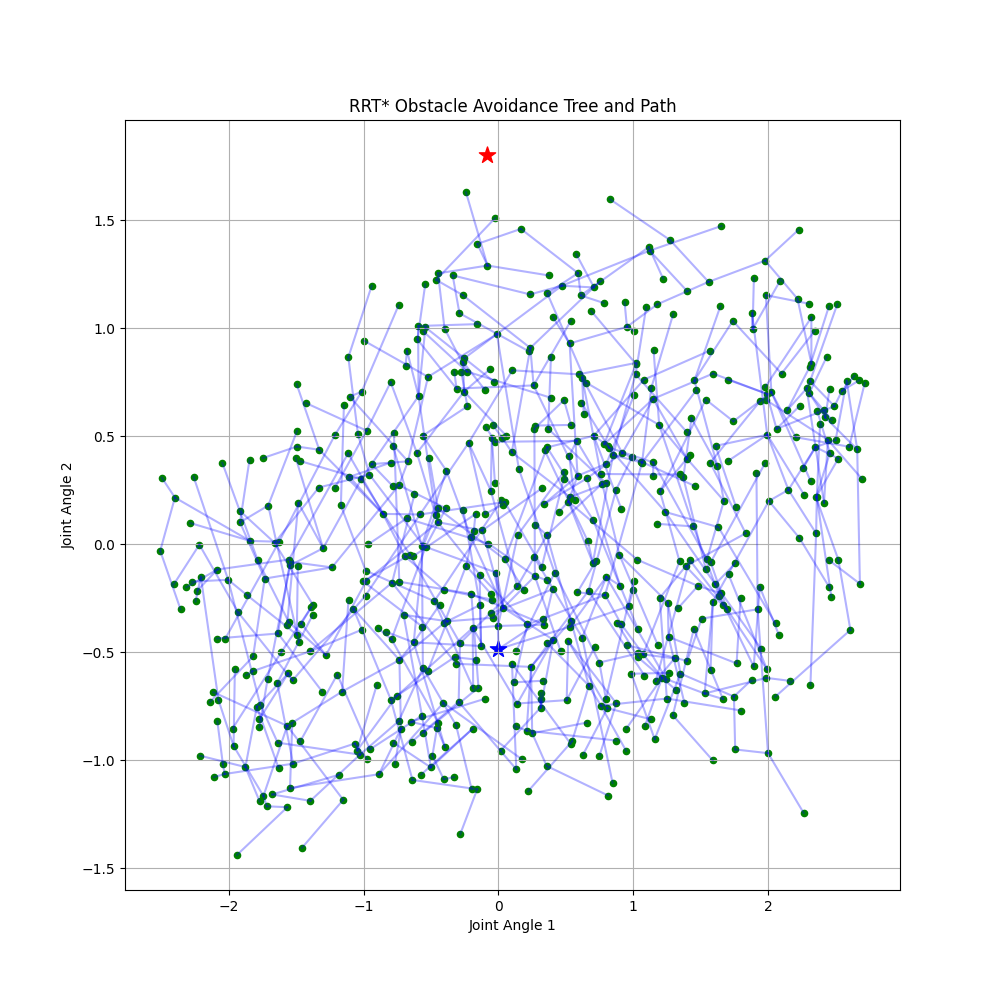
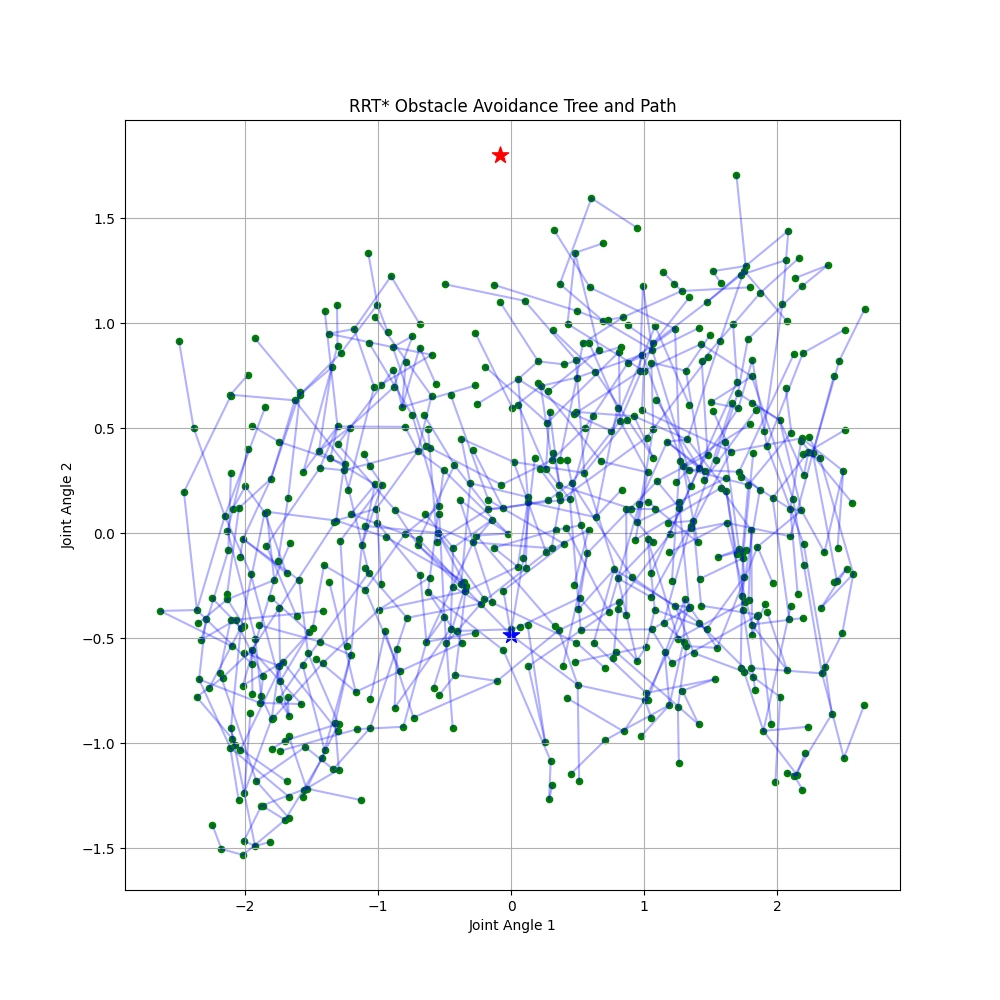
Added per frame planning doesnt work

diff --git a/main.py b/main.py
@@ -194,7 +194,7 @@ if __name__ == "__main__":
     env_num = 4
 
     # planner = "RRTObstacleAvoidance"
-    planner = "RRT_Star"
+    planner = "RRTObstacleAvoidance"
 
     # Set the environment
     physics_client, collision_ids, goal_id, robot_id, home_positions = environment_setup(env_num=env_num)
@@ -259,23 +259,102 @@ if __name__ == "__main__":
         planner.run(goal_positions = goal_positions)
 
     elif planner == "RRTObstacleAvoidance":
-        path_saved = np.array([goal_positions[0]]) # Start at the first goal position
+        path_saved = np.array([goal_positions[0]])  # Start at the first goal position
+
+        # Set up PID gains for joint position control
+        p_gain = 0.5
+        i_gain = 0.01
+        d_gain = 0.1
+
         for i in range(1, len(goal_positions)):
-            print(f"\nRunning RRT Star wih Object avoidance Motion Planner for goal position {i}")
-            print(f"Start position: {np.round(goal_positions[i-1],5)}")
-            print(f"Goal position: {np.round(goal_positions[i],5)}")
+            print(f"\nRunning RRT Star with Object Avoidance Motion Planner for goal position {i}")
+            print(f"Start position: {np.round(goal_positions[i-1], 5)}")
+            print(f"Goal position: {np.round(goal_positions[i], 5)}")
 
             # Initialize the RRT planner
-            rrt_oa = RealTimeRRT_ObstacleAvoidance(q_start=goal_positions[i-1], q_goal=goal_positions[i], robot_id=robot_id, obstacle_ids=collision_ids, max_iter=2000, step_size=0.75)
+            rrt_oa = RealTimeRRT_ObstacleAvoidance(
+                q_start=goal_positions[i-1],
+                q_goal=goal_positions[i],
+                robot_id=robot_id,
+                obstacle_ids=collision_ids,
+                max_iter=2000,
+                step_size=0.75
+            )
 
-            # Run the RRT planner
-            path_saved = np.concatenate((path_saved, rrt_oa.get_path()), axis=0)
+            # Real-time path following and replanning
+            current_goal_index = i
+            current_path, some_path = rrt_oa.get_path()
+
+            print(some_path)
+            path_index = 0
+            print("LMAO")
+            while path_index < len(some_path) - 1:
+
+                # Get current joint states
+                current_joint_states = p.getJointStates(robot_id, range(7))
+                current_joint_positions = [state[0] for state in current_joint_states]
+
+                # Check current robot state and obstacle positions
+                current_robot_pos = rrt_oa.forward_kinematics(current_joint_positions)
+
+                # Check for obstacle proximity or collision
+                is_obstacle_near, nearby_obstacles = rrt_oa.check_obstacle_proximity(current_robot_pos)
+
+                if is_obstacle_near:
+                    print(f"Obstacles detected near current position. Replanning...")
+                    # Replan the path
+                    rrt_oa = RealTimeRRT_ObstacleAvoidance(
+                        q_start=current_joint_positions,
+                        q_goal=goal_positions[current_goal_index],
+                        robot_id=robot_id,
+                        obstacle_ids=collision_ids,
+                        max_iter=2000,
+                        step_size=0.75
+                    )
+                    current_path, some_path = rrt_oa.get_path()
+                    path_index = 0
+
+                # Get next target joint positions
+                target_joint_positions = some_path[path_index + 1]
+
+                # Implement PID control for joint position tracking
+                joint_commands = []
+                for j in range(7):
+                    # Calculate error
+                    error = target_joint_positions[j] - current_joint_positions[j]
+
+                    # PID control calculation
+                    # You might want to store previous errors and integrate for more precise control
+                    command = p_gain * error
+
+                    joint_commands.append(command)
+
+                # Apply joint position control
+                p.setJointMotorControlArray(
+                    bodyIndex=robot_id,
+                    jointIndices=range(7),
+                    controlMode=p.POSITION_CONTROL,
+                    targetPositions=target_joint_positions,
+                    positionGains=[p_gain]*7,
+                    velocityGains=[d_gain]*7
+                )
+
+                # Step simulation
+                p.stepSimulation()
+
+                # Check if we're close enough to the target joint positions
+                if np.allclose(current_joint_positions, target_joint_positions, atol=0.05):
+                    path_index += 1
+
+                # Visualize current path and iteration
+                rrt_oa.visualize(goal_index=i)
+
+                # Add a small delay to control simulation speed
+                time.sleep(0.05)
+
+            # Accumulate path
+            path_saved = np.concatenate((path_saved, some_path), axis=0)
             print(path_saved)
-
-            # Visualize the path
-            rrt_oa.visualize(goal_index = i)
-
-        print(f"Path saved: {np.round(path_saved,5)}")
 
     # Initializing Simulation
     p.setRealTimeSimulation(0)

diff --git a/Planners/RealTimeRRTObstacleAvoidance.py b/Planners/RealTimeRRTObstacleAvoidance.py
@@ -279,6 +279,10 @@ class RealTimeRRT_ObstacleAvoidance:
         """Return the path from the start node to the goal node."""
 
         self.plan()
+        # print(self.node_list)
+        some_path = []
+        for no in self.node_list:
+            some_path.append(no.joint_angles)
 
         node = self.q_goal
         while node is not None:
@@ -288,7 +292,7 @@ class RealTimeRRT_ObstacleAvoidance:
         if not np.array_equal(self.path[-1], self.q_start.joint_angles):
             print("Path does not connect back to the start! Debug required.")
 
-        return self.path[::-1]
+        return self.path[::-1], some_path[::-1]
 
     def visualize(self, goal_index=None):
         """Visualize the RRT* tree and path."""
